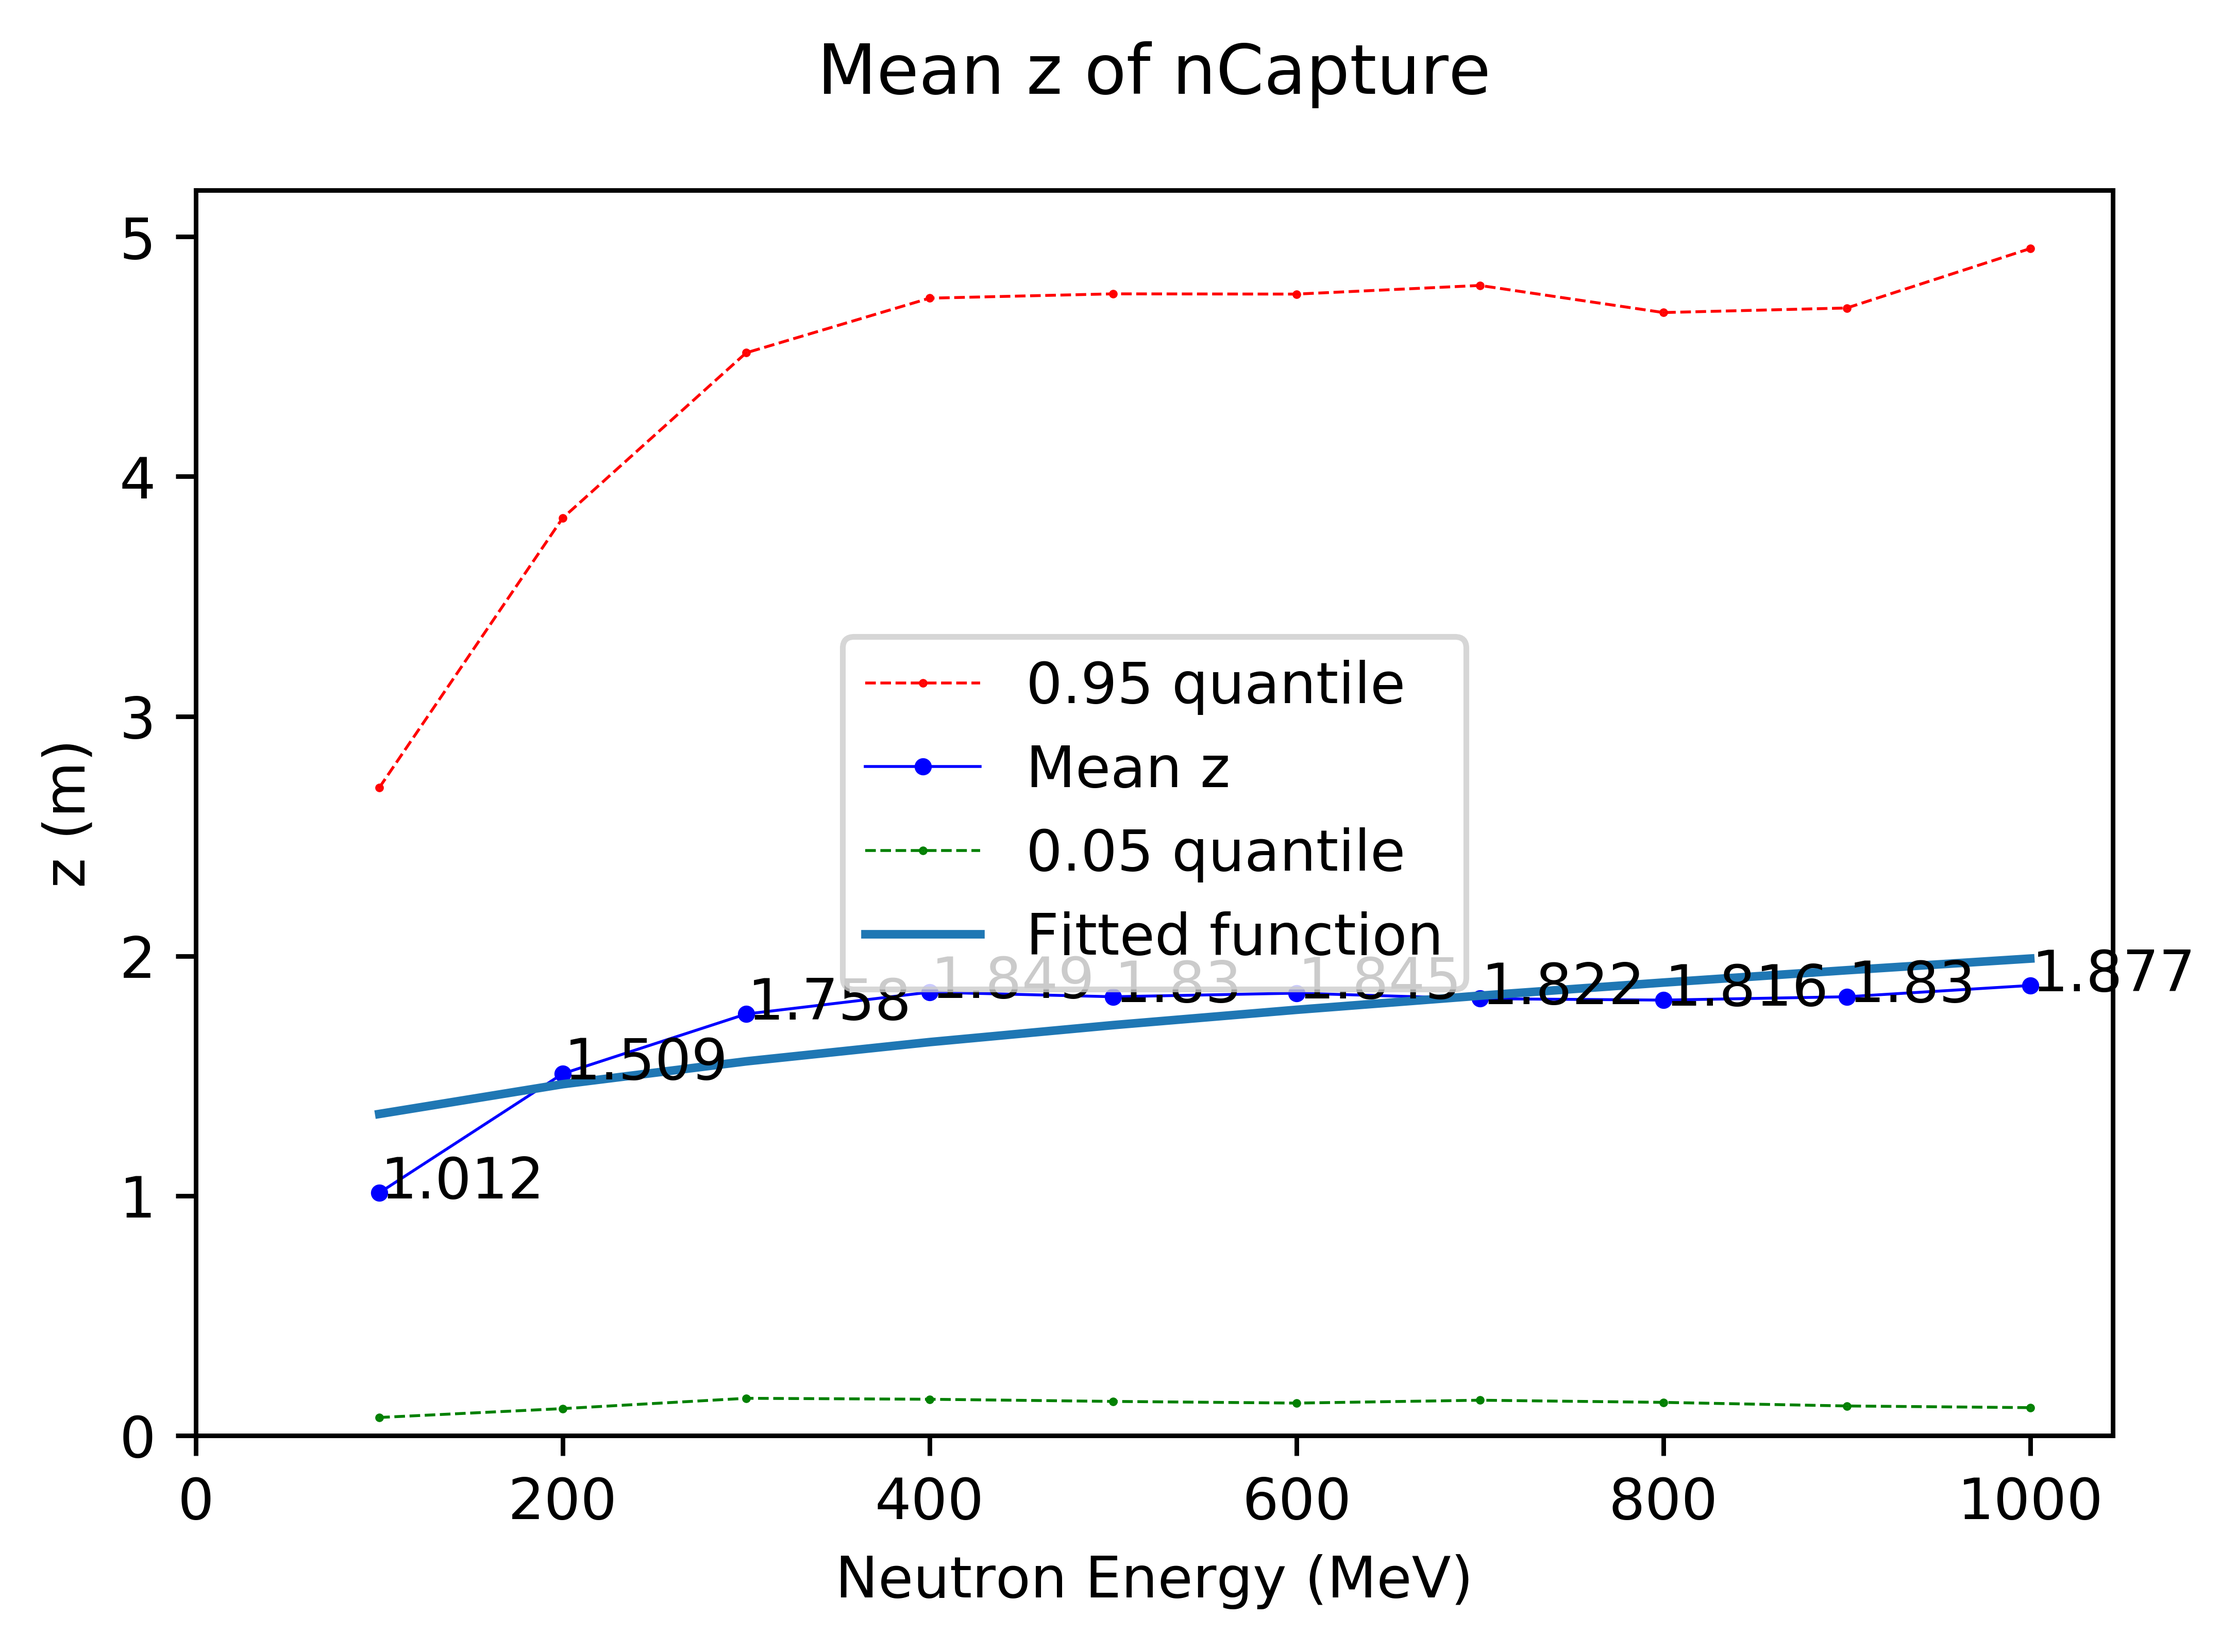
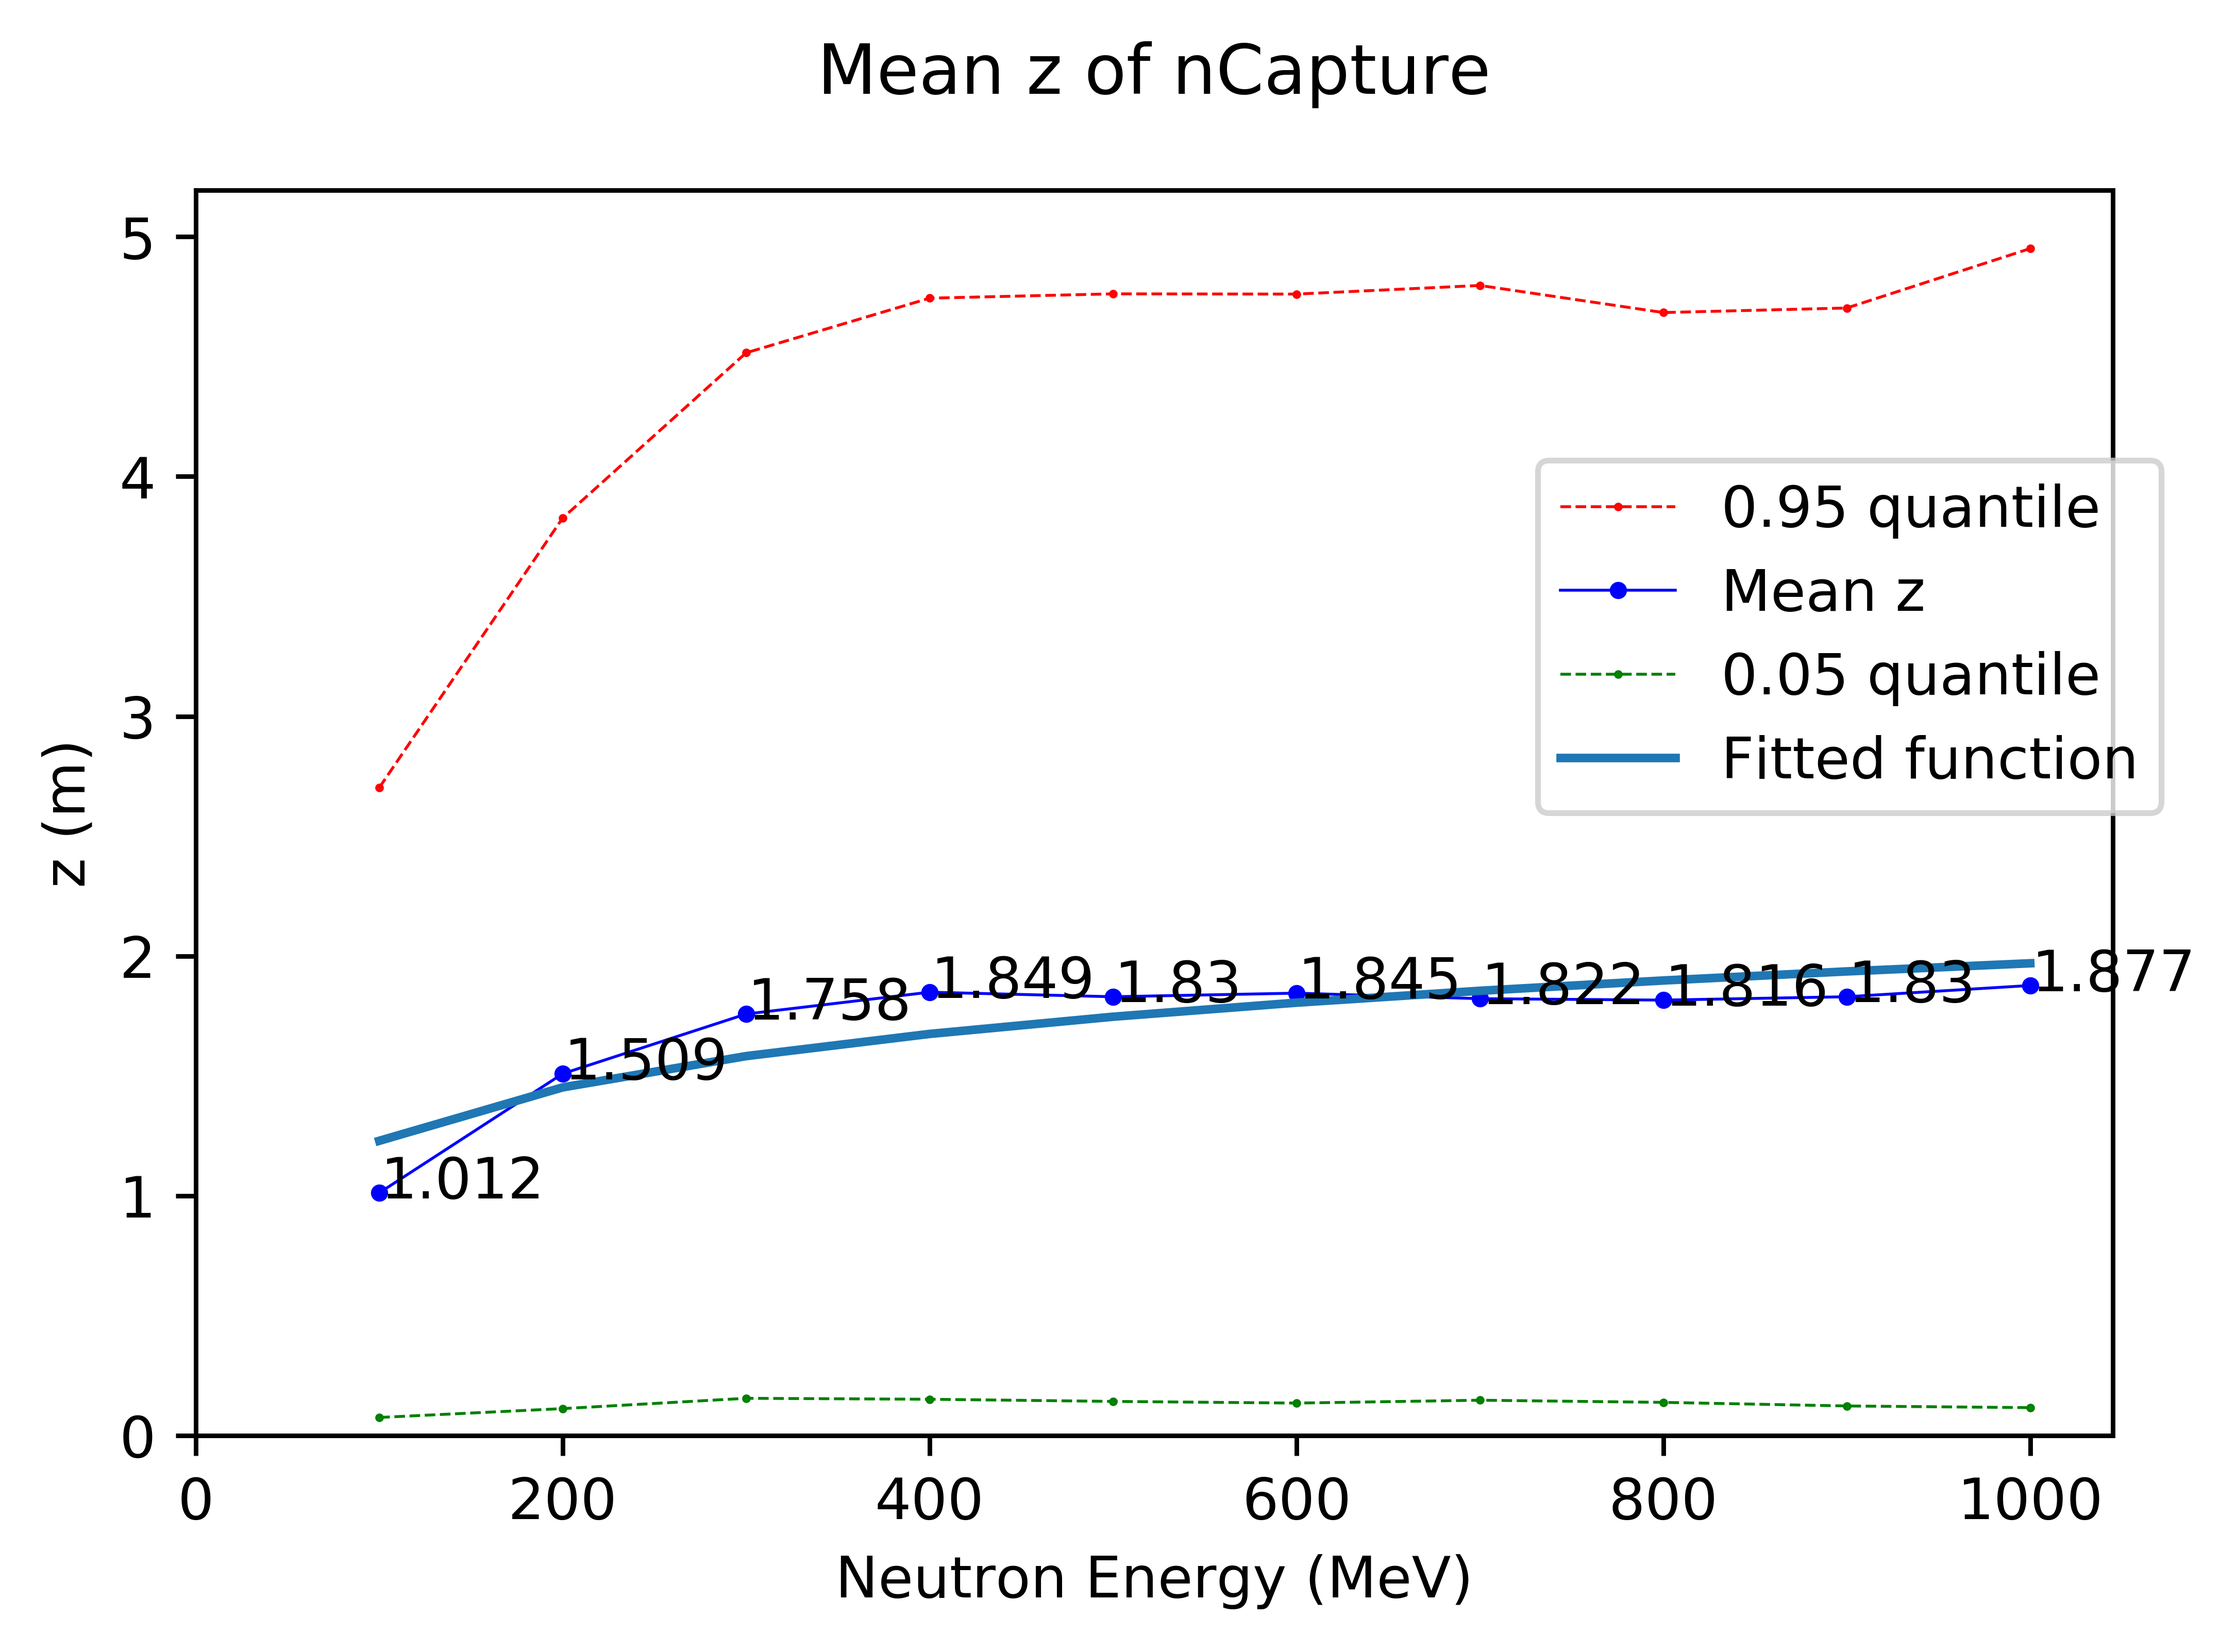
Moved legend

diff --git a/Hadr04-FTF-timeposition-build/nCaptureMeanz.py b/Hadr04-FTF-timeposition-build/nCaptureMeanz.py
@@ -44,11 +44,11 @@ energies = [100, 200, 300, 400, 500, 600, 700, 800, 900, 1000]
 #mostlybelow = np.array(mostlybelow)
 #energies = np.array(energies)
 
-#def test_func(z, a, b):
-#    return a+b*np.log(z)
-
 def test_func(z, a, b):
-    return a+b*z**(1/3)
+    return a+b*np.log(z)
+
+#def test_func(z, a, b):
+#    return a+b*z**(1/3)
 
 params, params_covariance = scipy.optimize.curve_fit(test_func,  energies,  meanz)
 
@@ -72,7 +72,7 @@ plt.xlabel('Neutron Energy (MeV)')
 plt.ylabel('z (m)')
 plt.xlim(left=0)
 plt.ylim(bottom=0)
-plt.legend()
+plt.legend(loc=(0.7,0.5))
 plt.savefig('nCapturemeanz.png', dpi=800, bbox_inches='tight')
 plt.show()
     
